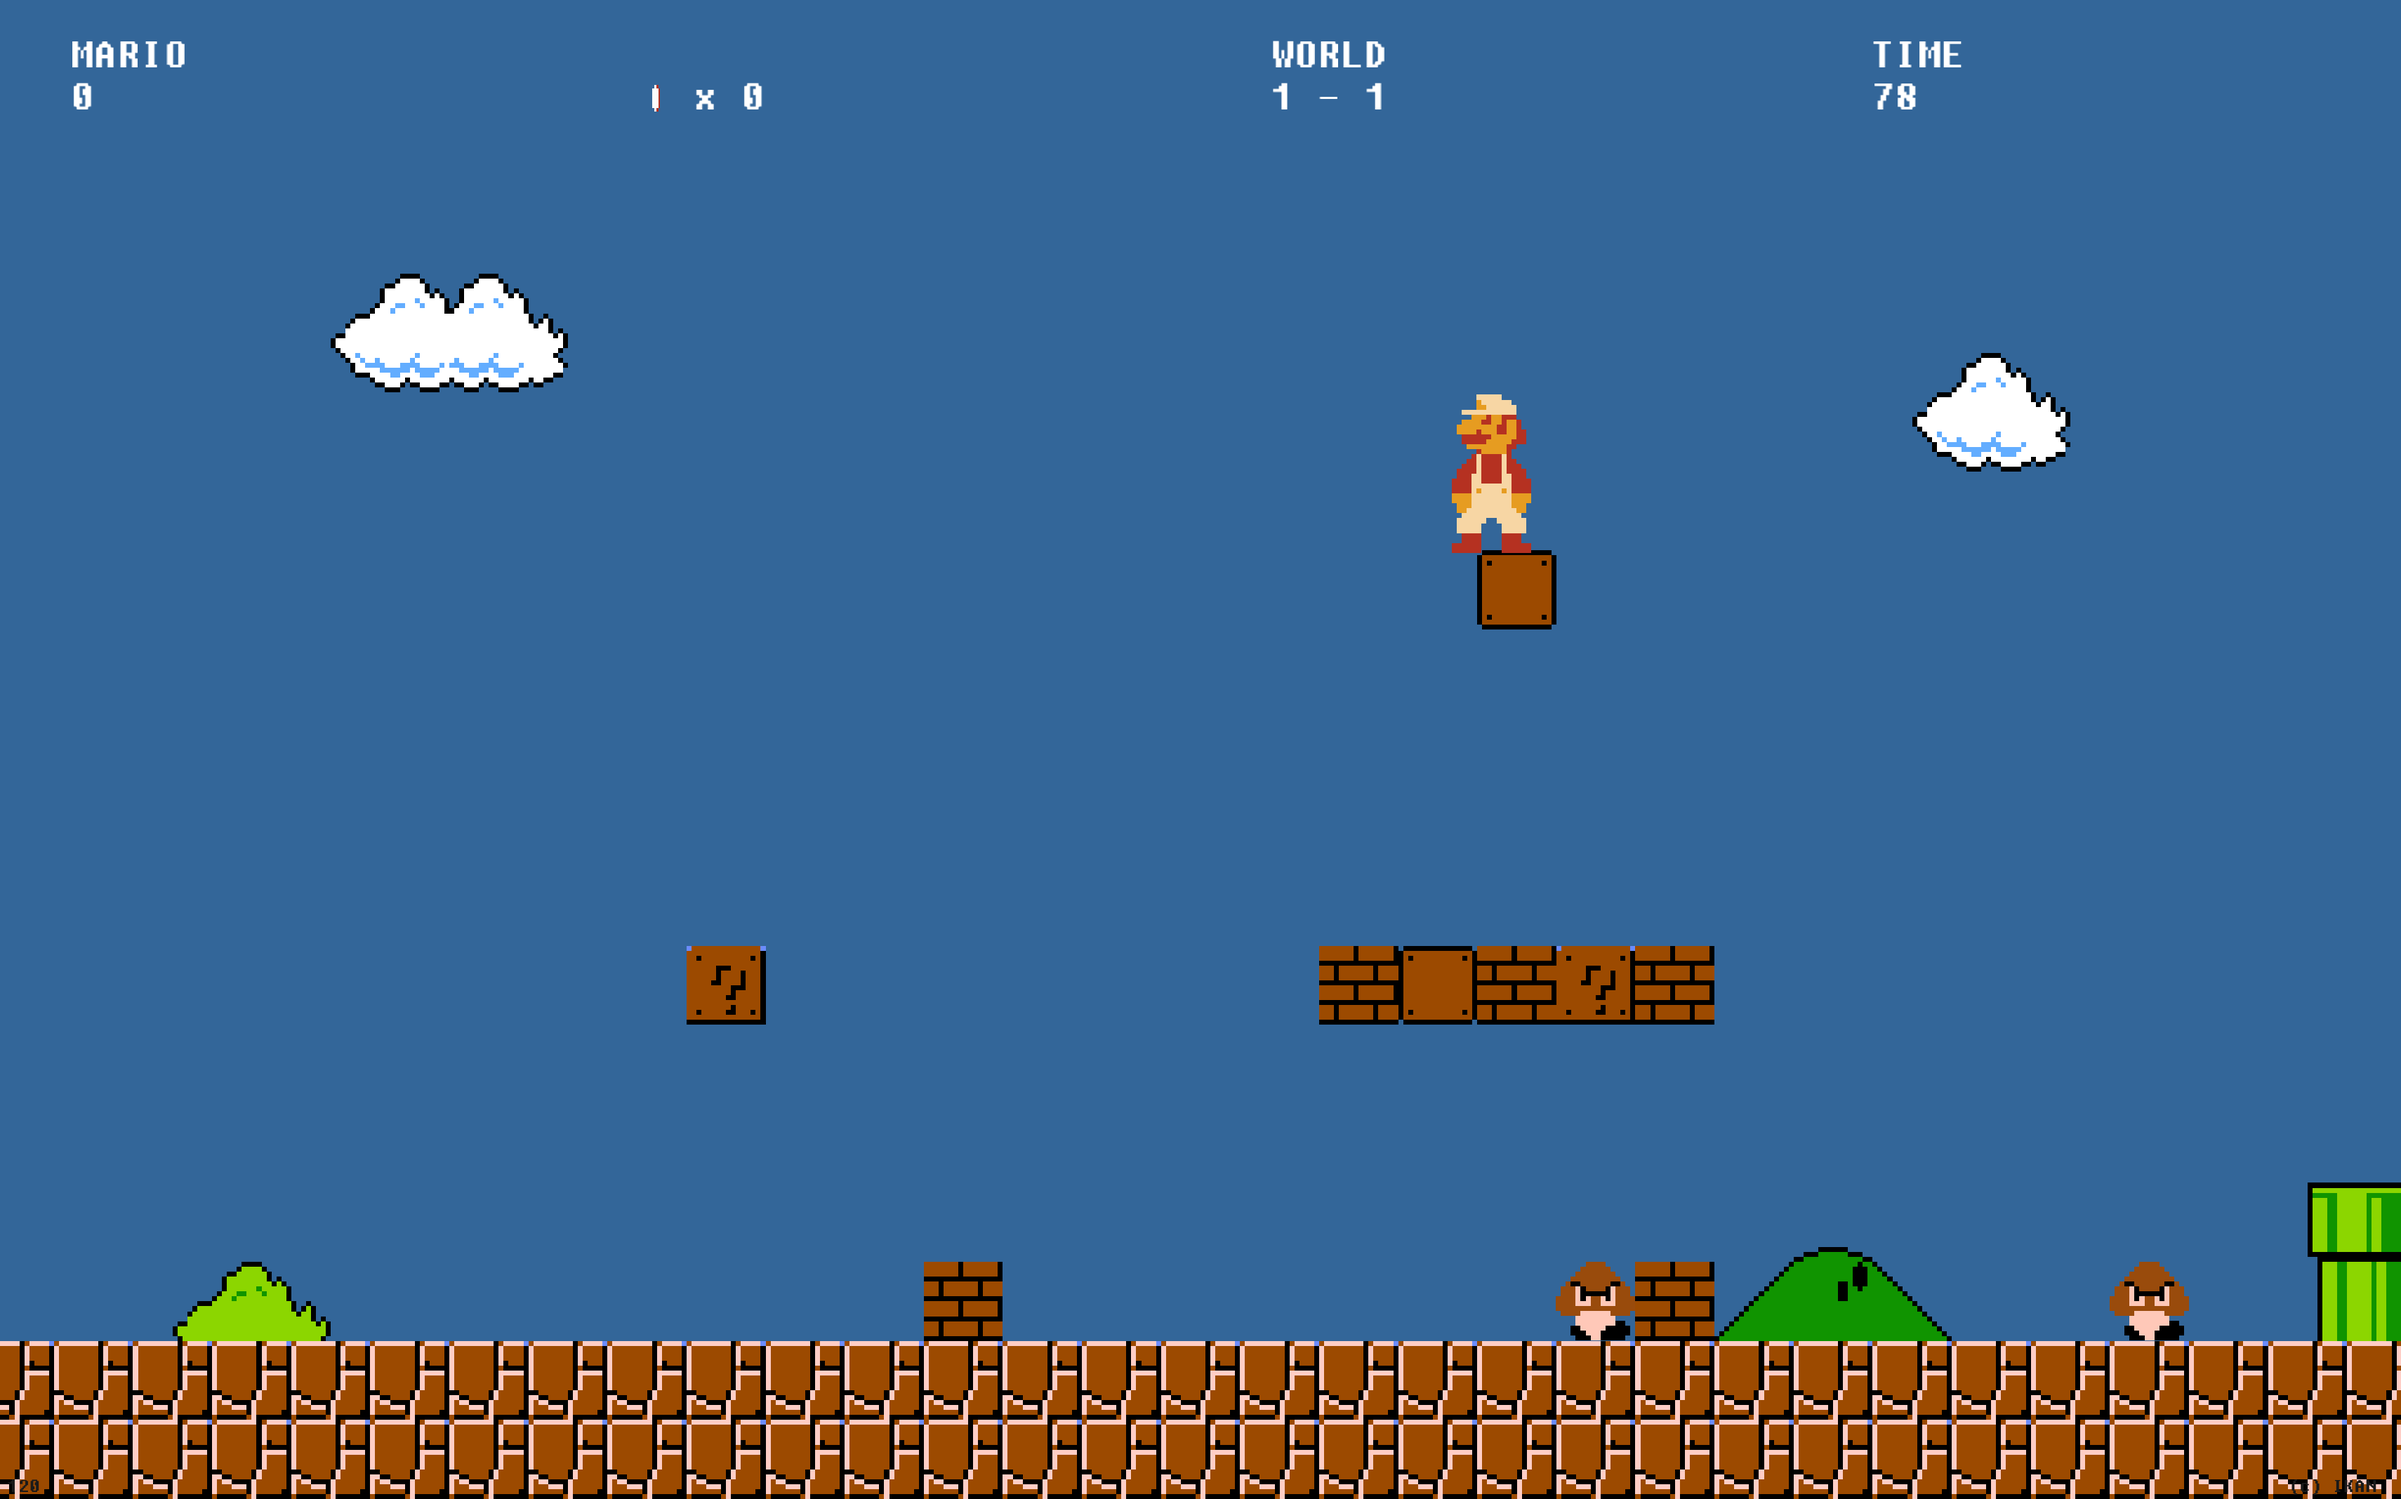
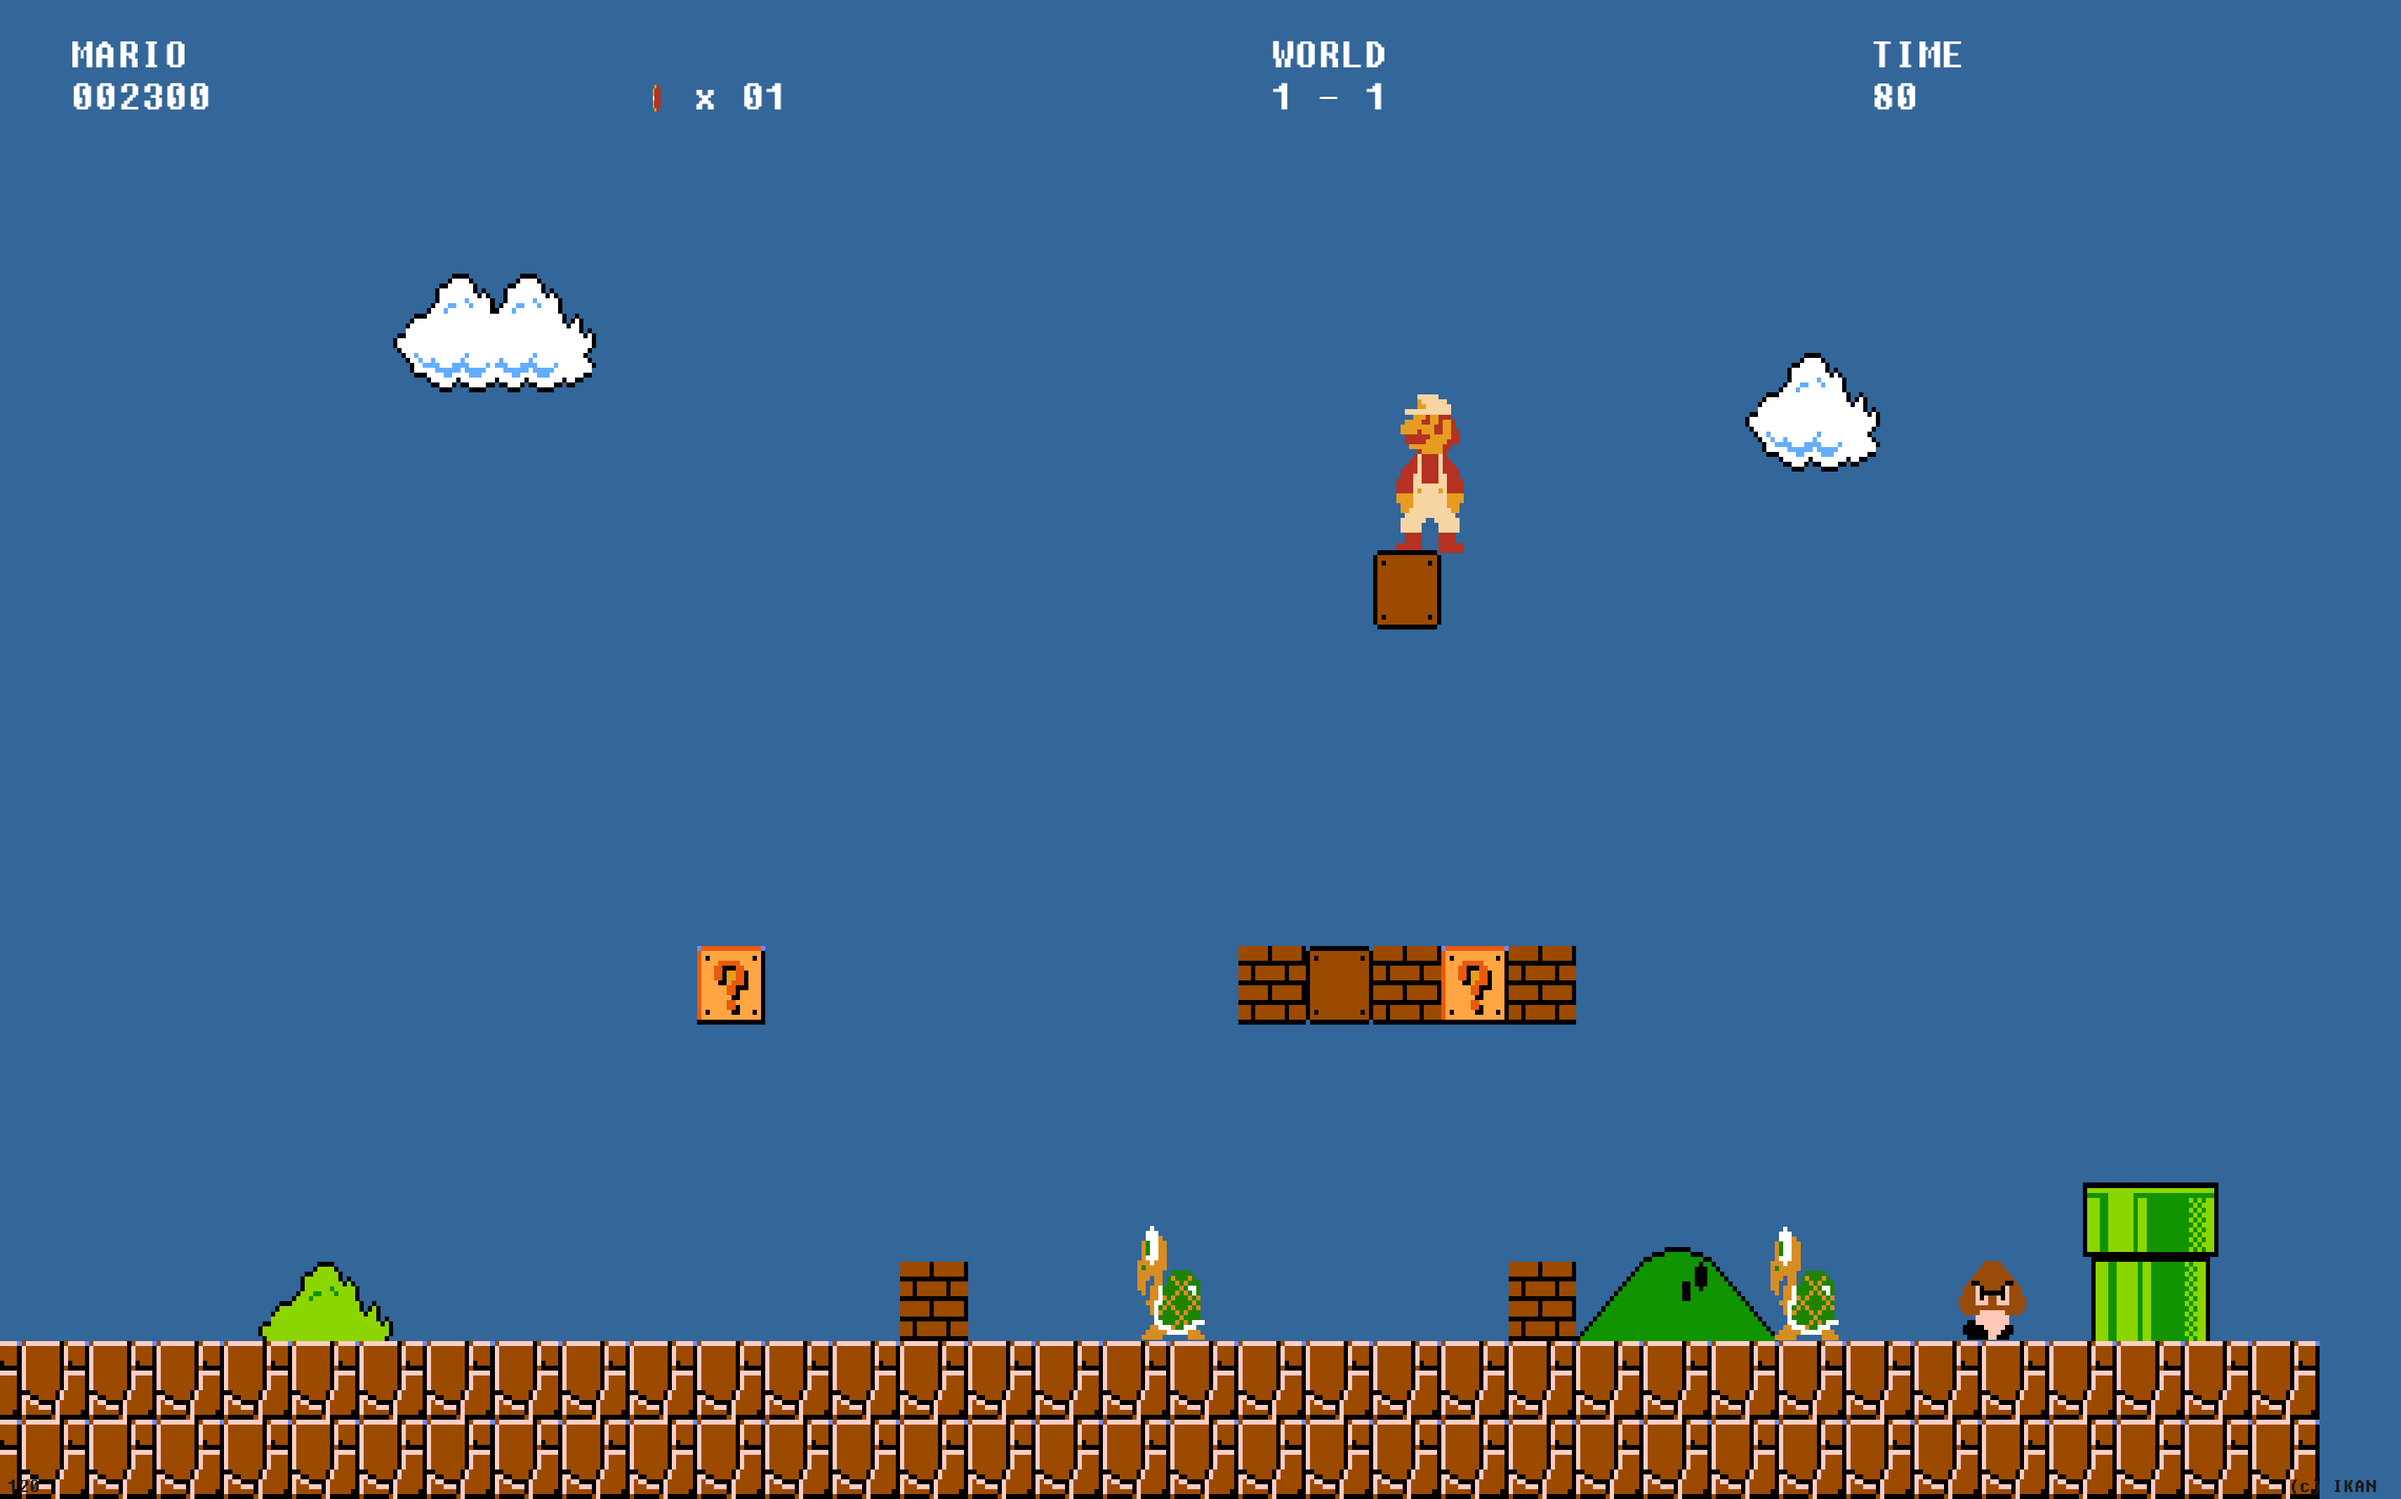
Adding score to Mario Flower

diff --git a/kreator/games/mario/src/runtime_items.cpp b/kreator/games/mario/src/runtime_items.cpp
@@ -133,8 +133,12 @@ namespace mario {
   }
   
   void FlowerController::Update(Timestep ts) {
-    if (destroy_)
+    if (destroy_) {
+      const auto& tc = entity_.GetComponent<TransformComponent>();
+      PlayerController::Get()->AddScore(score::Bonus);
+      RuntimeItemManager::Spawn(Items::Score, entity_.scene_, {tc.Position().x, tc.Position().y + 1}, score::Bonus);
       entity_.scene_->DestroyEntity(entity_);
+    }
   }
   void FlowerController::BeginCollision(Entity* collided_entity, b2Contact* contact, const glm::vec2& contact_normal) {
     if (destroy_) return;
